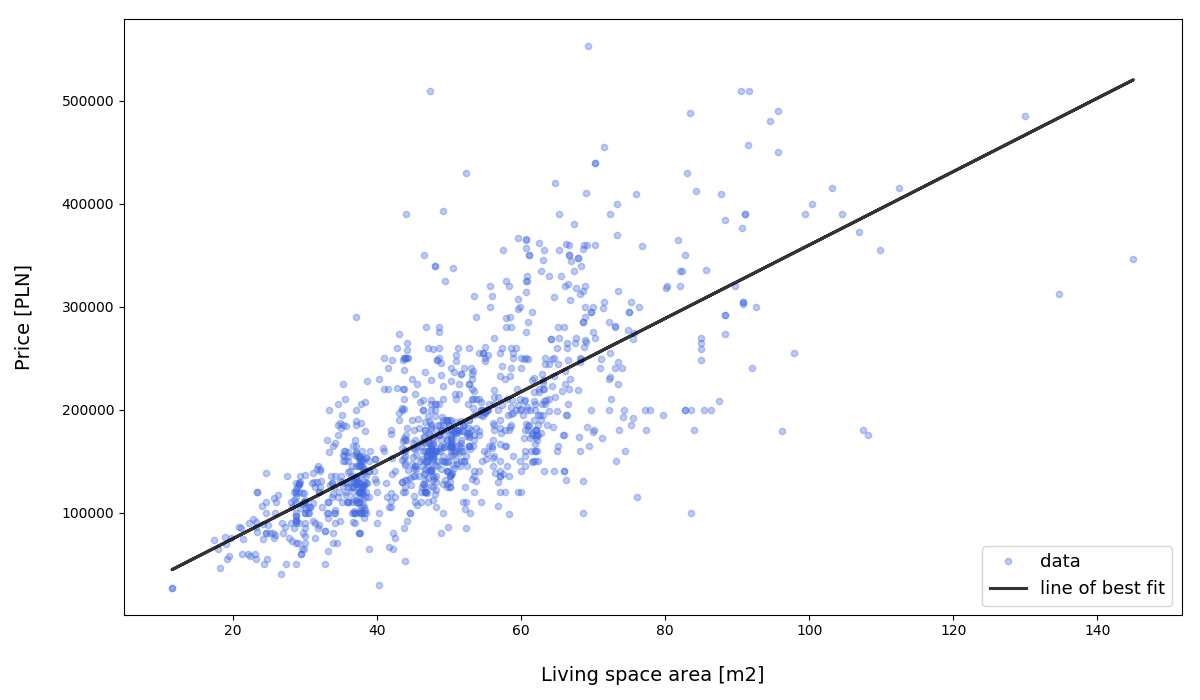
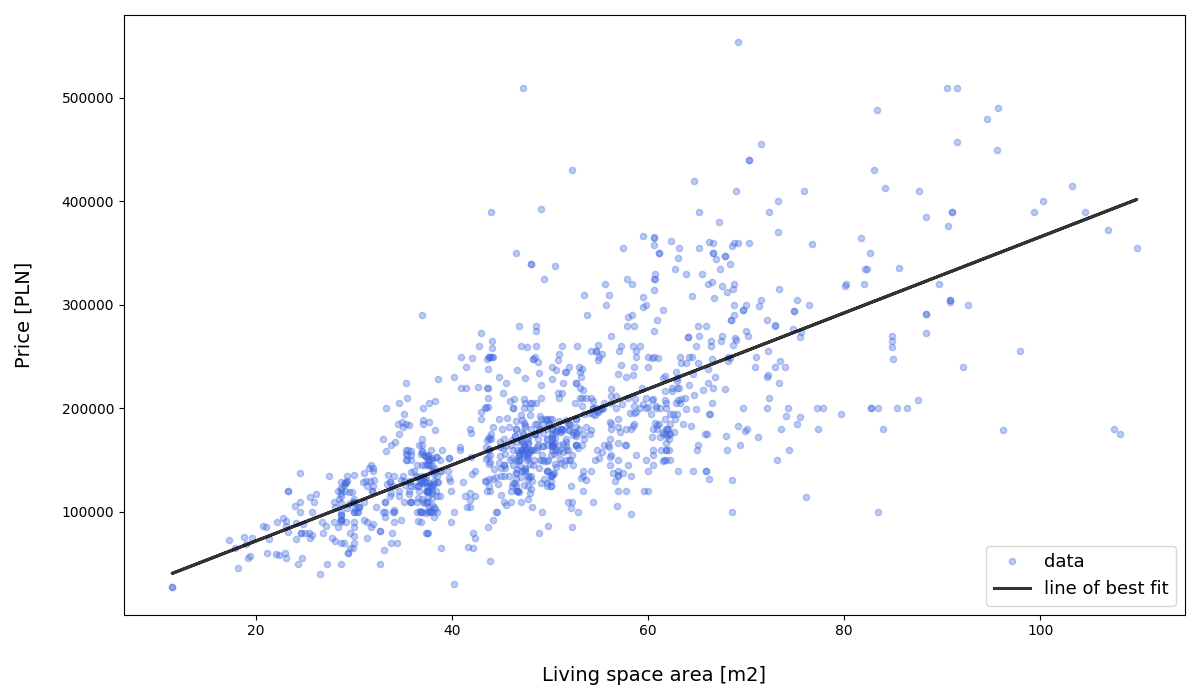
final versions of LS and MLE

diff --git a/Maximum_likelihood_estimation.py b/Maximum_likelihood_estimation.py
@@ -2,7 +2,6 @@ import xlrd
 import numpy as np
 import pandas as pd
 import matplotlib.pyplot as plt
-import scipy.stats as stats
 from scipy.optimize import fmin
 
 
@@ -24,39 +23,48 @@ def mean(data):
     return np.mean(data)
 
 
+def probability_density(mi, sigma, x):
+    return 1 / np.sqrt(2 * np.pi * sigma ** 2) * np.exp(-1 / (2 * sigma ** 2) * (x - mi) ** 2)
+
+
 data = get_data('data/residential_premises.xlsx', 'data')
 
 
 def f(w):
     u = w[0]
     s = w[1]
-    N = len(data)
+    n = len(data)
     x, x_pow = 0, 0
-    for i in range(N):
+    for i in range(n):
         x_pow += data[i] ** 2
         x += data[i]
-    return -(N * np.log(s * np.sqrt(2 * np.pi)) + 1 / (2 * s ** 2) * (x_pow - 2 * u * x + N * u ** 2))
+    return -(n * np.log(s * np.sqrt(2 * np.pi)) + 1 / (2 * s ** 2) * (x_pow - 2 * u * x + n * u ** 2))
 
 
 def neg_f(w):
     return - f(w)
 
 
-def probability_density(mi, sigma, x):
-    return (1 / (np.sqrt(2 * np.pi * sigma ** 2))) * np.exp(-(x - mi) ** 2 / 2 * sigma ** 2)
-
-
 def main():
+    # analytical method
+    mi = mean(data)
+    sigma = standard_deviation(data)
+    print('\nanalytical method result:\n\texpected value =', mi, '\n\tstandard deviation =', sigma,
+          "\n---------------------------------------------------------")
+
+    # numerical method
     initial_values = 100 * np.random.rand(2)
     optimal_coefficients = fmin(neg_f, initial_values)
-    print('Result:\n\texpected value =', optimal_coefficients[0], '\n\tstandard deviation =', optimal_coefficients[1])
+    print('\nnumerical method result:\n\texpected value =', optimal_coefficients[0],
+          '\n\tstandard deviation =', optimal_coefficients[1])
 
-    lin = np.linspace(min(data), max(data), 1100)
-    fig, axs = plt.subplots(2)
-    plt.tight_layout()
-    axs[0].plot(data, np.zeros(len(data)), 'bo', alpha=0.1)
-    axs[0].plot(lin, stats.norm.pdf(optimal_coefficients[0], optimal_coefficients[1], lin))
-    axs[1].hist(data, alpha=0.6, rwidth=0.95)
+    # charts
+    arguments = np.linspace(min(data), max(data), 1100)
+    plt.figure(figsize=(12, 8))
+    plt.plot(data, np.zeros(len(data)), 'o', color='royalblue', alpha=0.15, label='data (living space area [m2])')
+    plt.plot(arguments, probability_density(optimal_coefficients[0], optimal_coefficients[1], arguments),
+             label='normal distribution for data', color='black')
+    plt.legend()
     plt.show()
 
 

diff --git a/Method_of_least_squares.py b/Method_of_least_squares.py
@@ -27,20 +27,20 @@ def linear_equation(arguments, coefficient_A, coefficient_B):
 
 def main():
     plt.figure(figsize=(12, 7))
-    file_name = "data/residential_premises.xlsx"
-    sheet = "data"
+    file_name = 'data/residential_premises.xlsx'
+    sheet = 'data'
 
     data = get_data(file_name, sheet)
     U = data[0]
     Y = data[1]
     coefficients = least_squares_fit(U, Y)
 
-    print("Result:\n\tCoefficient A =", coefficients[1], "coefficient B =", coefficients[0])
-    plt.plot(U[1], Y, 'o', color="royalblue", alpha=0.35, label="data", markersize=4.5)
-    plt.plot(U[1], linear_equation(U[1], coefficients[1], coefficients[0]), color="black",
-             alpha=0.8, linewidth=2.2, label="line of best fit")
-    plt.xlabel("\nLiving space area [m2]", fontsize=14)
-    plt.ylabel("Price [PLN]\n", fontsize=14)
+    print('Result:\n\tCoefficient A =', coefficients[1], 'coefficient B =', coefficients[0])
+    plt.plot(U[1], Y, 'o', color='royalblue', alpha=0.35, label='data', markersize=4.5)
+    plt.plot(U[1], linear_equation(U[1], coefficients[1], coefficients[0]), color='black',
+             alpha=0.8, linewidth=2.2, label='line of best fit')
+    plt.xlabel('\nLiving space area [m2]', fontsize=14)
+    plt.ylabel('Price [PLN]\n', fontsize=14)
     plt.legend(loc='lower right', fontsize=13)
     plt.show()
 

diff --git a/other/norm.py b/other/norm.py
@@ -4,12 +4,14 @@ import scipy.stats as stats
 
 
 def probability_density(mi, sigma, x):
-    return (1 / (np.sqrt(2 * np.pi * sigma ** 2))) * np.exp(-(x - mi) ** 2 / 2 * sigma ** 2)
+    part1 = 1 / np.sqrt(2 * np.pi * sigma ** 2)
+    part2 = np.exp(-1 / (2 * sigma ** 2) * (x - mi) ** 2)
+    return part1 * part2
 
 
 mi = 0
-sigma = 3
-lin = np.linspace(-5 * sigma, 5 * sigma, 10000)
+sigma = 19
+lin = np.linspace(-100, 100, 100000)
 plt.plot(lin, probability_density(mi, sigma, lin))
 plt.show()
 

diff --git a/README.md b/README.md
@@ -13,6 +13,6 @@ clone this git repository
 ### Least squares
 ![least_squares_fitting](/media/least_squares_fitting.png)
 ### Maximum likelihood estimation
-
+![maximum_likelihood_estimation.png](/media/maximum_likelihood_estimation.png)
 ### Kernel density estimation
 ### Data
